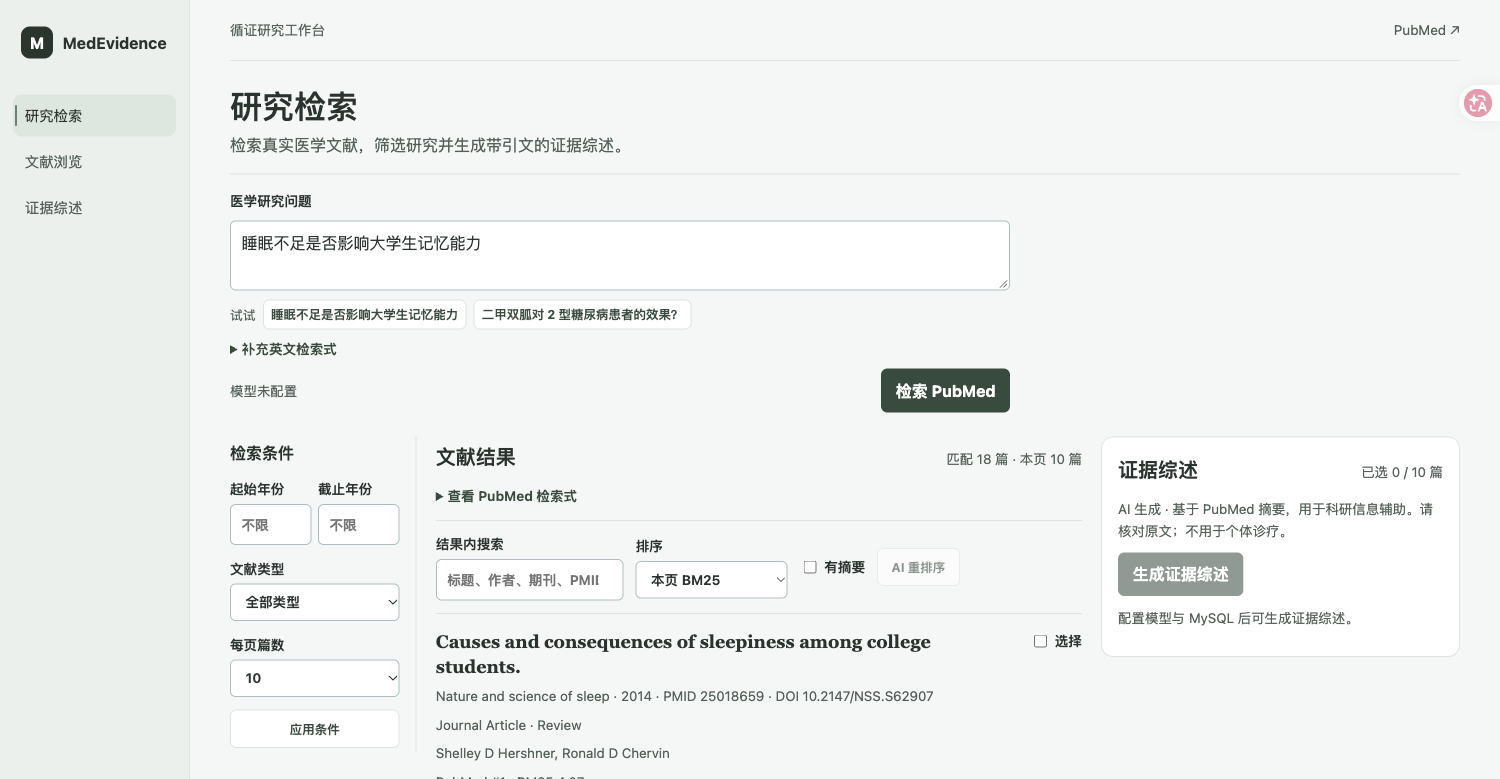
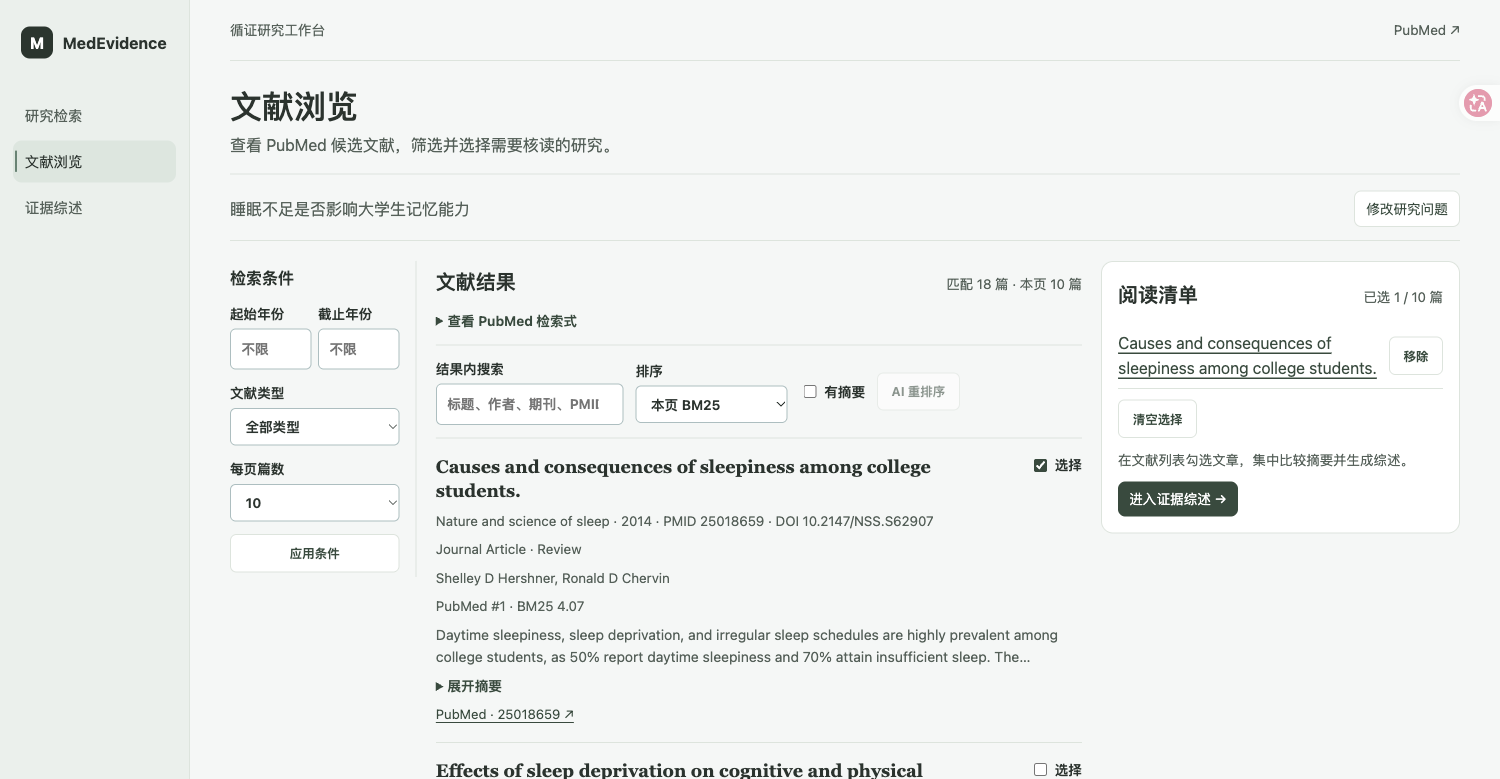
feat(web): follow reference research and reading workflows

diff --git a/frontend/index.html b/frontend/index.html
@@ -22,14 +22,16 @@
       <a href="#question">循证研究工作台</a>
       <a class="source" href="https://pubmed.ncbi.nlm.nih.gov/" target="_blank" rel="noopener noreferrer">PubMed ↗</a>
     </header>
-<main>
+<main id="workspace-main">
   <section class="hero" id="question" aria-labelledby="main-title">
     <div class="intro">
       <h1 id="main-title">研究检索</h1>
       <p>检索真实医学文献，筛选研究并生成带引文的证据综述。</p>
     </div>
+    <div class="home-content">
     <form id="search">
       <label for="query">医学研究问题</label>
+      <div class="question-box">
       <textarea id="query" required maxlength="1000" rows="2" placeholder="例如，二甲双胍对 2 型糖尿病患者的效果？"></textarea>
       <div class="examples"><span>试试</span>
         <button type="button" class="secondary example">睡眠不足是否影响大学生记忆能力</button>
@@ -44,24 +46,40 @@
         <span id="model-state">正在检查 AI 配置…</span>
         <button type="submit" id="search-button">检索 PubMed</button>
       </div>
+      </div>
+      <p id="home-status" class="workspace-status" role="status"></p>
     </form>
+    <nav class="home-shortcuts" aria-label="研究入口">
+      <a href="#literature"><strong>浏览文献</strong><span>按发表时间和文献类型筛选</span><b aria-hidden="true">→</b></a>
+      <a href="#review"><strong>证据综述</strong><span>检查已选文献与原文引文</span><b aria-hidden="true">→</b></a>
+    </nav>
+    </div>
   </section>
-  <div class="workspace">
+  <section id="literature" class="view-page" aria-labelledby="browse-title" hidden>
+    <div class="intro page-heading">
+      <h1 id="browse-title">文献浏览</h1>
+      <p>查看 PubMed 候选文献，筛选并选择需要核读的研究。</p>
+    </div>
+    <div class="browse-query">
+      <span id="active-question">尚未提交研究问题</span>
+      <a class="secondary link-button" href="#question">修改研究问题</a>
+    </div>
+  <div class="workspace" id="browse-grid">
     <section class="search-facets" aria-labelledby="facet-title">
       <h2 id="facet-title">检索条件</h2>
       <div class="year-range">
-        <label>起始年份<input form="search" id="from-year" type="number" min="1500" placeholder="不限"></label>
-        <label>截止年份<input form="search" id="to-year" type="number" min="1500" placeholder="不限"></label>
+        <label>起始年份<input id="from-year" type="number" min="1500" placeholder="不限"></label>
+        <label>截止年份<input id="to-year" type="number" min="1500" placeholder="不限"></label>
       </div>
-      <label>文献类型<select form="search" id="publication-type">
+      <label>文献类型<select id="publication-type">
         <option value="">全部类型</option><option value="rct">随机对照试验</option>
         <option value="systematic">系统评价</option><option value="meta">Meta 分析</option>
         <option value="review">综述</option><option value="clinical">临床试验</option>
       </select></label>
-      <label>每页篇数<select form="search" id="page-size"><option>10</option><option>20</option><option>30</option><option>50</option></select></label>
-      <button type="submit" form="search" class="secondary" id="apply-filters">应用条件</button>
+      <label>每页篇数<select id="page-size"><option>10</option><option>20</option><option>30</option><option>50</option></select></label>
+      <button type="button" class="secondary" id="apply-filters">应用条件</button>
     </section>
-    <section class="literature" id="literature" aria-labelledby="results-title">
+    <section class="literature" aria-labelledby="results-title">
       <header class="section-head">
         <h2 id="results-title">文献结果</h2>
         <p id="status" role="status">输入研究问题开始检索。</p>
@@ -81,17 +99,32 @@
         <button type="button" class="secondary" id="next">下一页</button>
       </div>
     </section>
-    <aside class="reading-tools" id="review" aria-labelledby="review-title">
-      <header class="section-head"><h2 id="review-title">证据综述</h2><p id="selection-count">已选 0 / 10 篇</p></header>
+    <aside class="reading-tools" id="reading-tools" aria-labelledby="review-title">
+      <header class="section-head"><h2 id="review-title">阅读清单</h2><p id="selection-count">已选 0 / 10 篇</p></header>
       <div id="selected"></div>
       <button type="button" class="secondary" id="clear-selection" hidden>清空选择</button>
+      <p id="selection-hint" class="note">在文献列表勾选文章，集中比较摘要并生成综述。</p>
+      <a href="#review" class="primary link-button" id="view-review">进入证据综述 →</a>
+    </aside>
+  </div>
+  </section>
+  <section id="review" class="view-page" aria-labelledby="evidence-title" hidden>
+    <div class="intro page-heading"><h1 id="evidence-title">证据综述</h1><p>基于已选文献提取研究证据，并逐条核对原始来源。</p></div>
+    <div class="review-grid">
+      <section id="review-content" class="review-content" aria-label="证据综述正文">
       <p class="note">AI 生成 · 基于 PubMed 摘要，用于科研信息辅助。请核对原文；不用于个体诊疗。</p>
       <button type="button" id="review-button" disabled>生成证据综述</button>
       <p id="review-status" role="status"></p>
       <button type="button" class="secondary" id="export-review" hidden>导出 Markdown</button>
       <div id="review-result"></div>
-    </aside>
-  </div>
+      </section>
+      <div id="review-selection"></div>
+    </div>
+  </section>
+  <dialog id="paper-detail" aria-labelledby="paper-detail-title">
+    <form method="dialog"><button type="submit" class="secondary">关闭</button></form>
+    <div id="paper-detail-content"></div>
+  </dialog>
 </main>
 <footer>数据来源为 NCBI PubMed。 <a href="https://www.ncbi.nlm.nih.gov/home/about/policies/">NCBI 使用政策与摘要版权 ↗</a></footer>
   </div>

diff --git a/frontend/search.js b/frontend/search.js
@@ -3,6 +3,7 @@ const byId = id => document.getElementById(id);
 const form = byId('search');
 const results = byId('results');
 const status = byId('status');
+const homeStatus = byId('home-status');
 const reviewStatus = byId('review-status');
 const selected = new Map();
 let articles = [];
@@ -74,11 +75,27 @@ function renderSelected() {
   updateReviewButton();
 }
 
+function openPaper(article) {
+  const target = byId('paper-detail-content');
+  const heading = element('h2', article.title ?? '标题未收录');
+  heading.id = 'paper-detail-title';
+  const metadata = [article.journal, article.publicationDate, `PMID ${article.pmid}`,
+    article.doi && `DOI ${article.doi}`].filter(Boolean).join(' · ');
+  target.replaceChildren(heading, element('p', metadata, 'meta'));
+  if (article.authors.length) target.append(element('p', article.authors.join(', '), 'meta'));
+  target.append(pubmed(article.pmid, '查看 PubMed 原文 ↗'), element('h3', '摘要'),
+    element('p', article.abstractText ?? 'PubMed 未收录摘要。', 'abstract'));
+  byId('paper-detail').showModal();
+}
+
 function renderArticle(article) {
   const card = element('article');
   const head = element('div', '', 'article-head');
   const title = element('h3');
-  title.append(pubmed(article.pmid, article.title ?? '标题未收录'));
+  const detailButton = element('button', article.title ?? '标题未收录', 'paper-title');
+  detailButton.type = 'button';
+  detailButton.onclick = () => openPaper(article);
+  title.append(detailButton);
   const label = element('label', '', 'toggle');
   const checkbox = document.createElement('input');
   checkbox.type = 'checkbox';
@@ -113,7 +130,7 @@ function renderArticle(article) {
   const details = element('details');
   details.append(element('summary', article.abstractText ? '展开摘要' : '摘要未收录'),
     element('p', article.abstractText ?? 'PubMed 未提供此文献的摘要。', 'abstract'));
-  card.append(details);
+  card.append(details, pubmed(article.pmid, `PubMed · ${article.pmid} ↗`));
   return card;
 }
 
@@ -159,11 +176,13 @@ async function loadPage(request, page, newSearch) {
   searching = true;
   setBusy();
   status.textContent = '正在检索 PubMed…';
+  homeStatus.textContent = status.textContent;
   try {
     const body = await api('/literature/search', { ...request, page }, 75000);
     pageResult = body.data;
     lastRequest = { ...request, englishQuery: pageResult.englishQuery };
     question = request.query;
+    byId('active-question').textContent = question;
     articles = pageResult.articles;
     rankings = new Map(pageResult.rankings.map(rank => [rank.pmid, rank]));
     semanticOrder = null;
@@ -192,8 +211,11 @@ async function loadPage(request, page, newSearch) {
     byId('page-label').textContent = `第 ${pageResult.page} / ${pageCount} 页`;
     renderSelected();
     renderResults();
+    homeStatus.textContent = '';
+    if (newSearch && window.location.hash !== '#literature') window.location.hash = 'literature';
   } catch (error) {
     status.textContent = error.message + (articles.length ? ' 仍显示上一次检索结果。' : '');
+    homeStatus.textContent = status.textContent;
     if (error.code === 'ENGLISH_QUERY_REQUIRED') {
       byId('english-options').open = true;
       byId('english').focus();
@@ -209,16 +231,33 @@ function optionalYear(id) {
   return byId(id).value === '' ? undefined : Number(byId(id).value);
 }
 
-form.onsubmit = event => {
-  event.preventDefault();
-  loadPage({
-    query: byId('query').value.trim(),
-    englishQuery: byId('english').value.trim(),
+function searchFilters() {
+  return {
     limit: Number(byId('page-size').value),
     fromYear: optionalYear('from-year'),
     toYear: optionalYear('to-year'),
     publicationType: byId('publication-type').value,
+  };
+}
+
+form.onsubmit = event => {
+  event.preventDefault();
+  loadPage({
+    ...searchFilters(),
+    query: byId('query').value.trim(),
+    englishQuery: byId('english').value.trim(),
   }, 1, true);
+};
+
+byId('apply-filters').onclick = () => {
+  if (!lastRequest) {
+    window.location.hash = 'question';
+    byId('query').focus();
+    return;
+  }
+  const yearInputs = [byId('from-year'), byId('to-year')];
+  if (yearInputs.some(input => !input.reportValidity())) return;
+  loadPage({ ...lastRequest, ...searchFilters() }, 1, true);
 };
 
 byId('prev').onclick = () => loadPage(lastRequest, pageResult.page - 1, false);
@@ -227,6 +266,8 @@ byId('clear-selection').onclick = () => { selected.clear(); renderSelected(); re
 byId('edit-expression').onclick = () => {
   byId('english').value = pageResult.englishQuery;
   byId('english-options').open = true;
+  window.location.hash = 'question';
+  syncNavigation();
   byId('english').focus();
 };
 for (const example of document.querySelectorAll('.example')) {
@@ -396,11 +437,21 @@ byId('export-review').onclick = () => {
 };
 
 function syncNavigation() {
-  const section = window.location.hash || '#question';
+  const pages = ['question', 'literature', 'review'];
+  const section = window.location.hash.slice(1);
+  const active = pages.includes(section) ? section : 'question';
+  for (const id of pages) byId(id).hidden = id !== active;
+  const selection = byId('reading-tools');
+  const parent = byId(active === 'review' ? 'review-selection' : 'browse-grid');
+  if (selection.parentElement !== parent) parent.append(selection);
+  byId('view-review').hidden = active === 'review';
   for (const link of document.querySelectorAll('.nav-list a')) {
-    if (link.getAttribute('href') === section) link.setAttribute('aria-current', 'location');
+    if (link.getAttribute('href') === '#' + active) link.setAttribute('aria-current', 'page');
     else link.removeAttribute('aria-current');
   }
 }
-window.addEventListener('hashchange', syncNavigation);
+window.addEventListener('hashchange', () => {
+  syncNavigation();
+  window.scrollTo({ top: 0, behavior: 'instant' });
+});
 syncNavigation();

diff --git a/frontend/styles.css b/frontend/styles.css
@@ -110,3 +110,35 @@ article:has(details[open]) .preview { display: none; }
   .nav-list a { padding: .35rem .55rem; }
   html { scroll-padding-top: 6rem; }
 }
+
+.home-content { max-width: 68rem; margin: 2.4rem auto 0; }
+.home-content form { max-width: none; }
+.question-box { display: grid; gap: .6rem; padding: 1rem 1.2rem; border: 1px solid var(--line); border-radius: 1.05rem; background: #fff; box-shadow: 0 12px 26px #253b290b; }
+.question-box textarea { min-height: 5.4rem; border: 0; background: transparent; font-size: clamp(1rem, 2.1vw, 1.4rem); }
+.question-box .example { border-color: transparent; background: transparent; }
+.question-box .example:hover { background: #ecf3ee; }
+.home-shortcuts { display: grid; grid-template-columns: repeat(2, minmax(0, 1fr)); gap: 1.2rem; margin-top: 2.4rem; border-block: 1px solid var(--line); padding: .8rem 0; }
+.home-shortcuts a { display: grid; grid-template-columns: minmax(0, 1fr) auto; align-items: center; padding: .8rem; text-decoration: none; border-radius: .6rem; }
+.home-shortcuts a:hover { background: #eaf0ec; }
+.home-shortcuts span { color: var(--muted); font-size: .82rem; }
+.home-shortcuts b { grid-area: 1 / 2 / 3 / 3; }
+.view-page { margin-top: 1.5rem; }
+.browse-query { display: flex; flex-wrap: wrap; justify-content: space-between; align-items: center; gap: .65rem; padding-bottom: .8rem; margin-bottom: 1.25rem; border-bottom: 1px solid var(--line); }
+#active-question, .workspace-status { overflow-wrap: anywhere; color: var(--muted); }
+.link-button { display: inline-block; padding: .42rem .7rem; border-radius: .45rem; text-decoration: none; font-size: .85rem; }
+.link-button.primary { background: var(--accent); color: white; }
+.review-grid { display: grid; grid-template-columns: minmax(0, 1fr) minmax(220px, .38fr); gap: 1.4rem; }
+.review-content { background: white; border: 1px solid var(--line); border-radius: .8rem; padding: 1rem 1.2rem; min-width: 0; }
+.review-content .note:first-child { margin-top: 0; }
+.paper-title { all: unset; color: var(--ink); cursor: pointer; overflow-wrap: anywhere; }
+.paper-title:hover { color: var(--accent); text-decoration: underline; }
+.paper-title:focus-visible { outline: 3px solid #628473; outline-offset: 3px; }
+article > a { display: inline-block; margin-top: .45rem; font-size: .82rem; }
+#paper-detail { width: min(44rem, calc(100% - 2rem)); max-height: 84vh; border: 1px solid var(--line); border-radius: .8rem; padding: 1.2rem; color: var(--ink); }
+#paper-detail::backdrop { background: #17261e66; }
+#paper-detail form { display: flex; justify-content: flex-end; margin-bottom: .4rem; }
+#paper-detail-content a { display: inline-block; margin-block: .7rem; }
+@media (max-width: 780px) {
+  .review-grid, .home-shortcuts { grid-template-columns: minmax(0, 1fr); }
+  .home-content { margin-top: 1.2rem; }
+}
